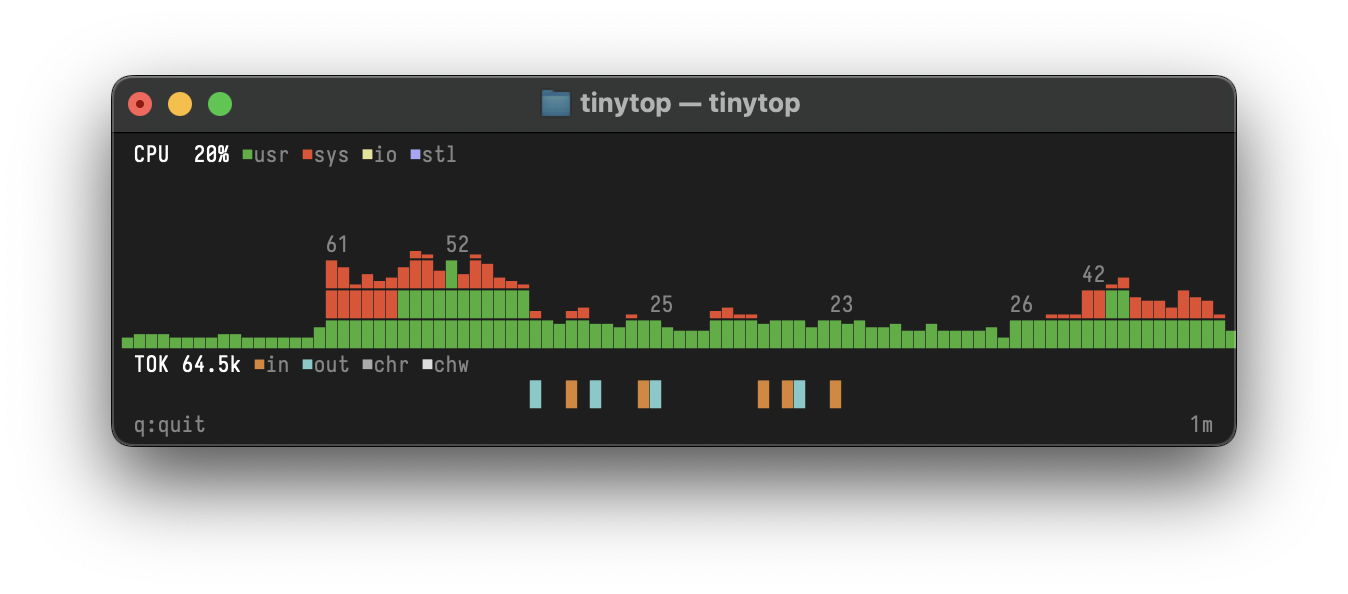
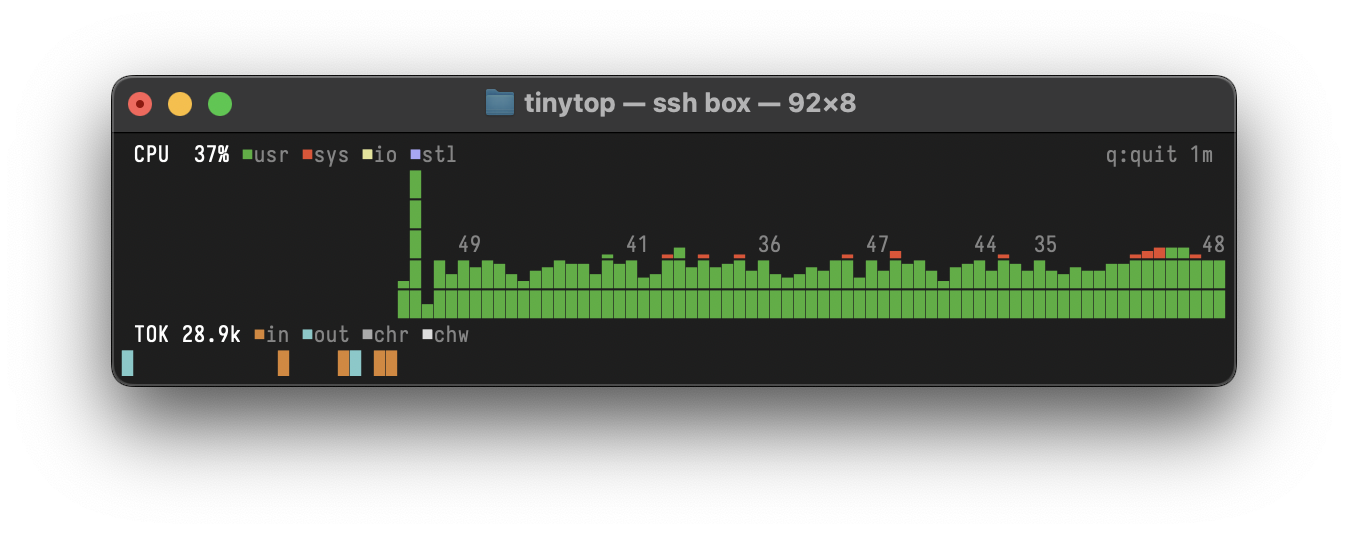
Update screenshot with compact layout
Display at original size (1348x534) on GitHub.

🤖 Generated with [Claude Code](https://claude.com/claude-code)

Changed region(s): [[0.0623, 0.1199, 0.9347, 0.779], [0.3739, 0.6292, 0.4985, 0.6891], [0.5608, 0.6292, 0.6231, 0.6891]]

diff --git a/README.md b/README.md
@@ -2,7 +2,7 @@
 
 Tiny terminal CPU monitor with Unicode graphics. Designed for small terminals over SSH.
 
-![tinytop screenshot](screenshot.png)
+<img src="screenshot.png" width="1348" height="534" alt="tinytop screenshot">
 
 ## Features
 
